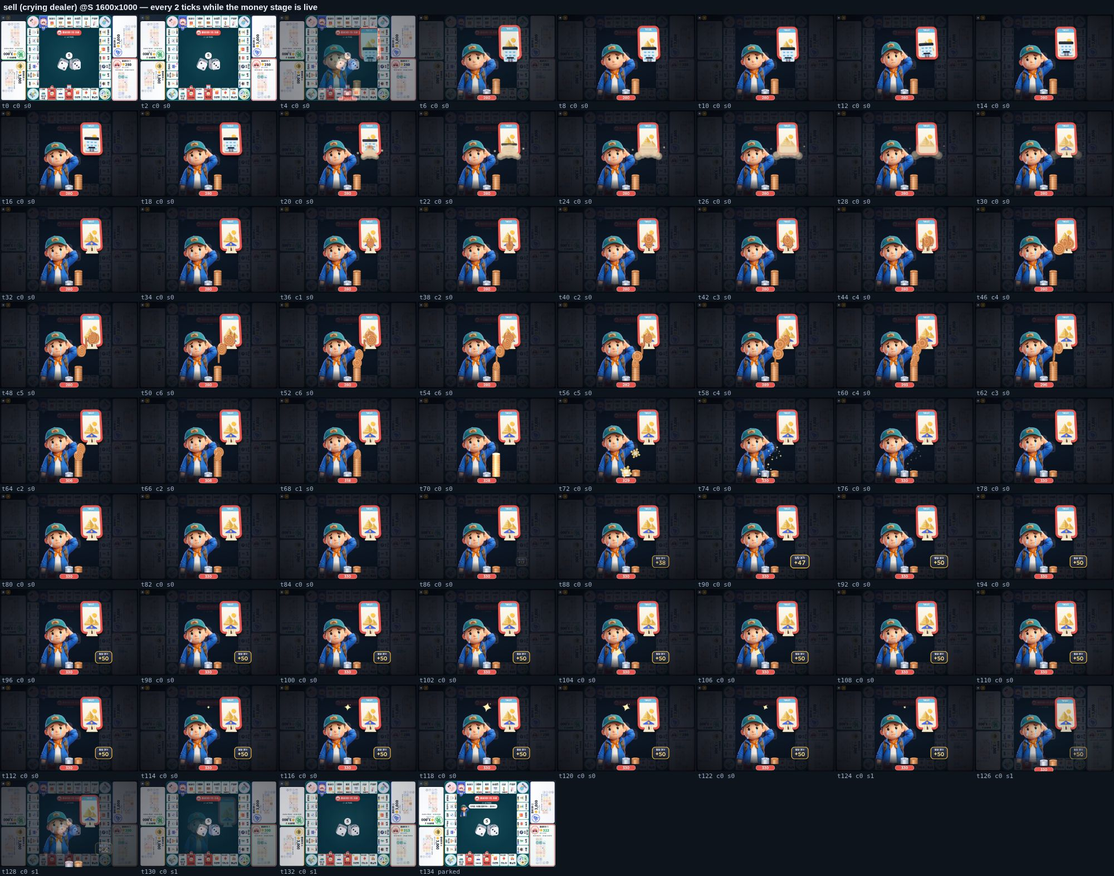
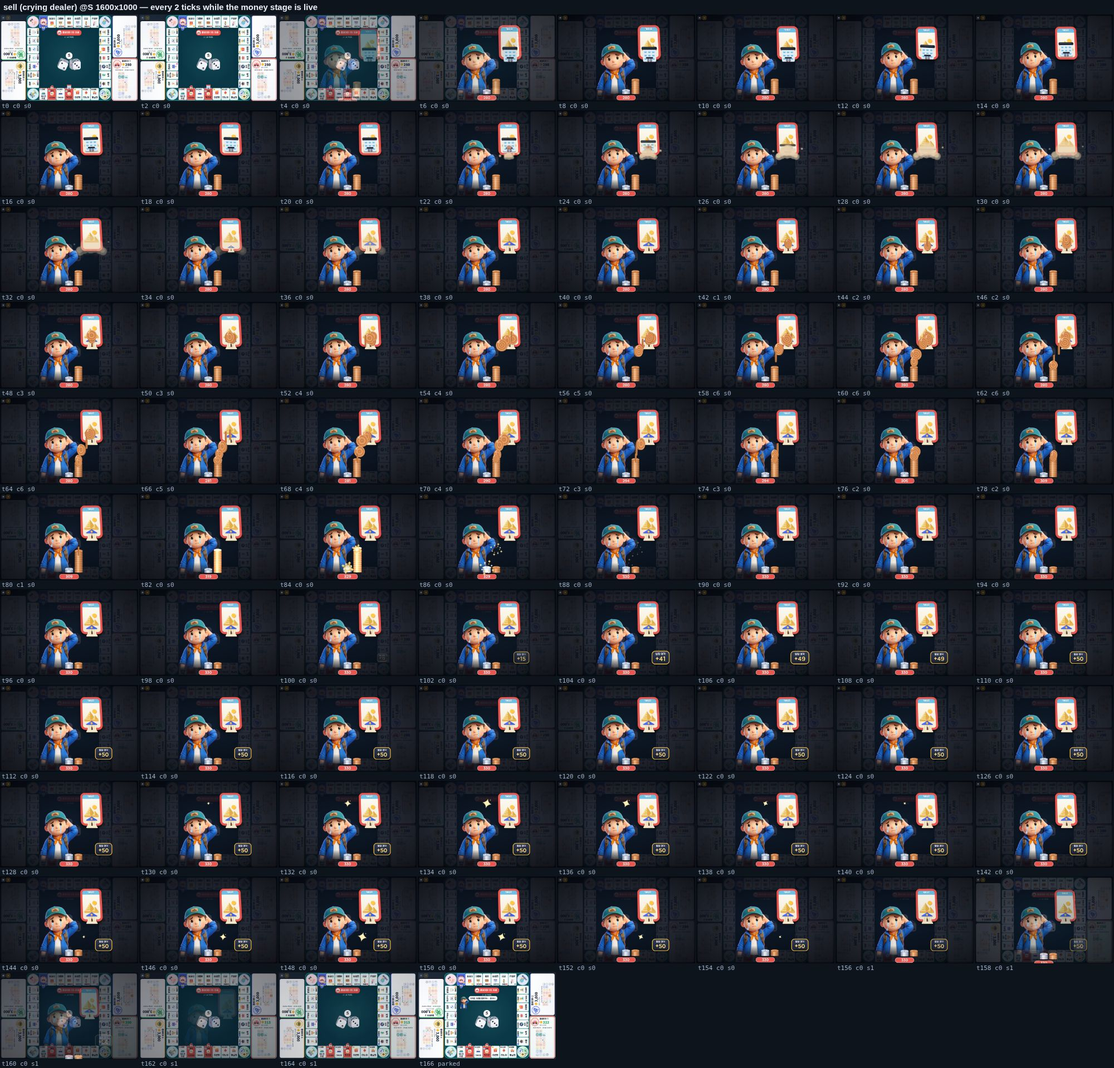
test: the sell cut-in under EVENT_EXTEND: beats base, shared boot(), refilmed sell strips [skip ci]
Claude-Session: https://claude.ai/code/session_01MFt13innfkDrSn1TMCBrcB

diff --git a/e2e/money-events.spec.ts b/e2e/money-events.spec.ts
@@ -646,7 +646,7 @@ test.describe('selling to the bank: the crying dealer (owner review 2026-10-06)'
   test('debt: every sale is a crying-dealer cut-in, wallets = engine cash, the last one chains into the toll', async ({ page }) => {
     test.setTimeout(240_000);
     const errors = watchConsole(page);
-    await boot(page, 1600, 1000);
+    await boot(page, { w: 1600, h: 1000 });
     await craft(page, 'S', DEBT);
     await act(page, 'Roll');
     expect(await page.evaluate(() => window.__lotAndRoll!.getState()!.phase.kind)).toBe('debt');
@@ -667,11 +667,12 @@ test.describe('selling to the bank: the crying dealer (owner review 2026-10-06)'
     sells.forEach((e, k) => {
       expect(e.play).toBe('sell');
       expect(Object.keys(e.wallets)).toEqual(['S']);
-      // A repeat of the same kind in a turn plays at 0.7× (§12.1): ≥ 3 s on screen, its still hold 0.7 s.
+      // A repeat of the same kind in a turn plays at 0.7× (§12.1, §12.4): still ≥ 4.1 s on screen,
+      // its still hold 0.7 × 1 s + holdMs.
       if (k === 0) expectBeats(e);
       else {
-        expect(e.liveMs, `sell ${k}: ${e.liveMs} ms on screen`).toBeGreaterThanOrEqual(2950);
-        expect(e.stillMs, `sell ${k}: still ${e.stillMs} ms`).toBeGreaterThanOrEqual(650);
+        expect(e.liveMs, `sell ${k}: ${e.liveMs} ms on screen`).toBeGreaterThanOrEqual(3950);
+        expect(e.stillMs, `sell ${k}: still ${e.stillMs} ms`).toBeGreaterThanOrEqual(1150);
       }
     });
     // The first sale's wallet ended on what the engine had then (+ the sale); the toll that the
@@ -691,7 +692,7 @@ test.describe('selling to the bank: the crying dealer (owner review 2026-10-06)'
     test(`filmstrip + crying hero ${size.w}x${size.h}`, async ({ page }) => {
       test.setTimeout(180_000);
       const errors = watchConsole(page);
-      await boot(page, size.w, size.h);
+      await boot(page, { w: size.w, h: size.h });
       mkdirSync(STRIPS, { recursive: true });
       await craft(page, 'S', DEBT, true);
       await page.evaluate(() => {
@@ -727,7 +728,7 @@ test.describe('selling to the bank: the crying dealer (owner review 2026-10-06)'
     const errors = watchConsole(page);
     for (const v of ['high', 'mid', 'low', 'N', 'reduced'] as const) {
       if (v === 'reduced') await reduceMotion(page);
-      await boot(page, 1280, 800, v === 'reduced' || v === 'N' ? '' : `&mres=${v}`);
+      await boot(page, { w: 1280, h: 800, query: v === 'reduced' || v === 'N' ? '' : `&mres=${v}` });
       // Seat N: the cut-in turns 180° to face the seller across the table.
       await craft(page, v === 'N' ? 'N' : 'S', DEBT, true);
       await page.evaluate(() => {

diff --git a/src/ui/fx/money/__tests__/beats.test.ts b/src/ui/fx/money/__tests__/beats.test.ts
@@ -47,6 +47,8 @@ const BASE: Record<string, [number, number]> = {
   'toll S': [146, 107], 'toll M': [146, 107], 'festival toll': [161, 118], 'waived toll': [95, 95],
   takeover: [149, 107], collect: [148, 107], 'pay all': [154, 110], salary: [124, 95], tax: [122, 95],
   bail: [122, 95], 'sale (bank → me)': [116, 95], 'leader tax (via centre)': [137, 100], bankruptcy: [110, 95],
+  // The crying-dealer sell cut-in (2026-10-06), measured before EVENT_EXTEND like the rest.
+  'sell a building (crying dealer)': [118, 95], 'sell land + a hotel': [124, 95],
 };
 /** Frames EVENT_EXTEND adds to a cut-in (motion + hold). */
 const EXT_F = (EVENT_EXTEND.motionMs + EVENT_EXTEND.holdMs) / f(1);
